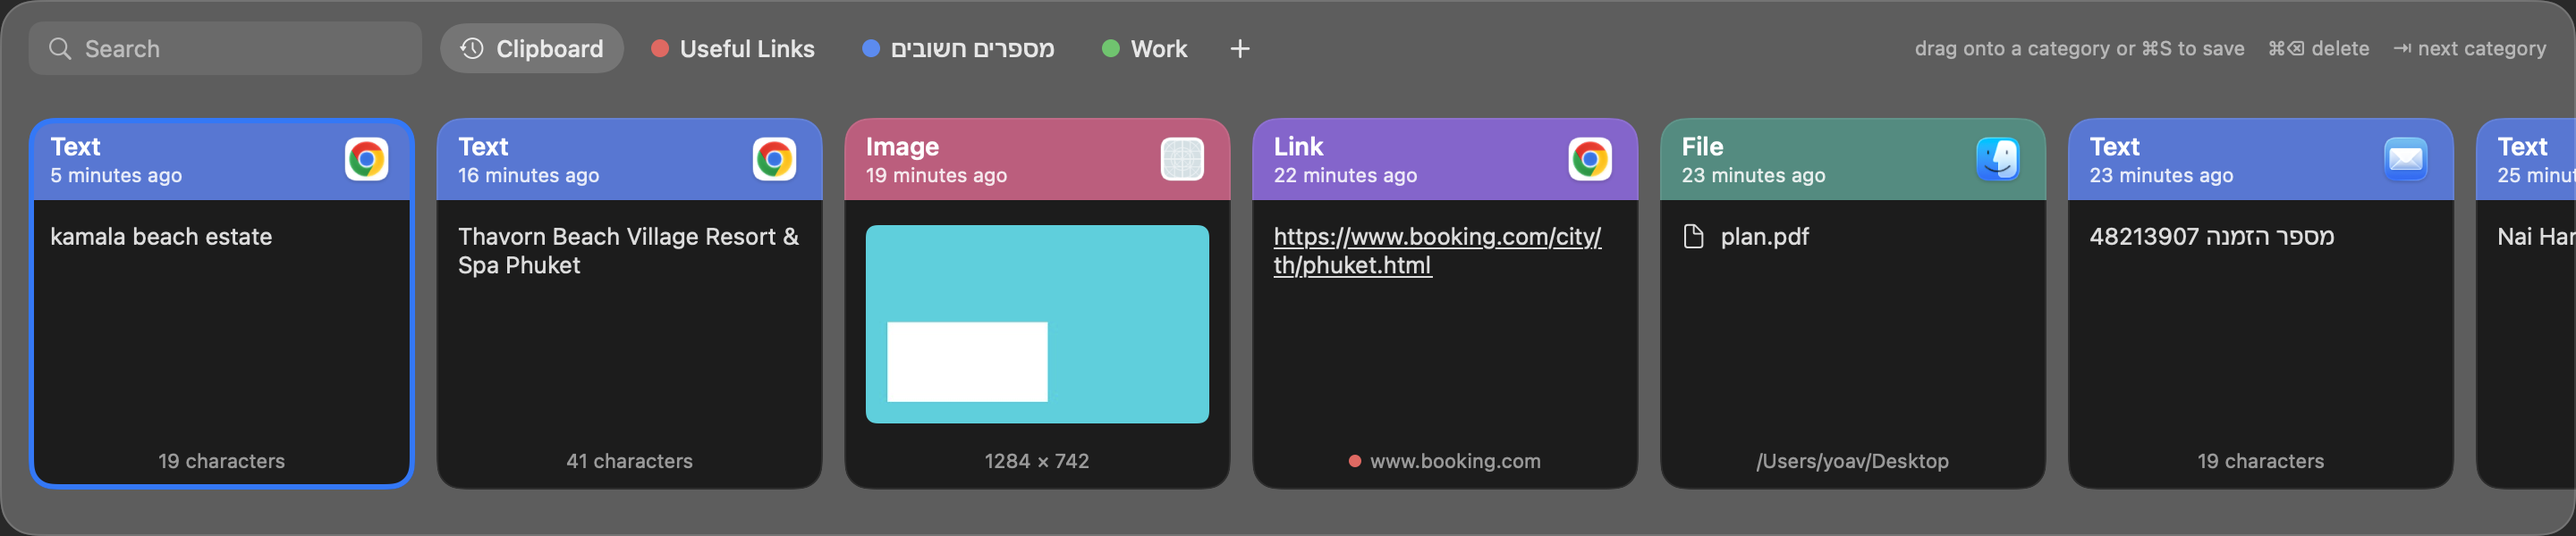
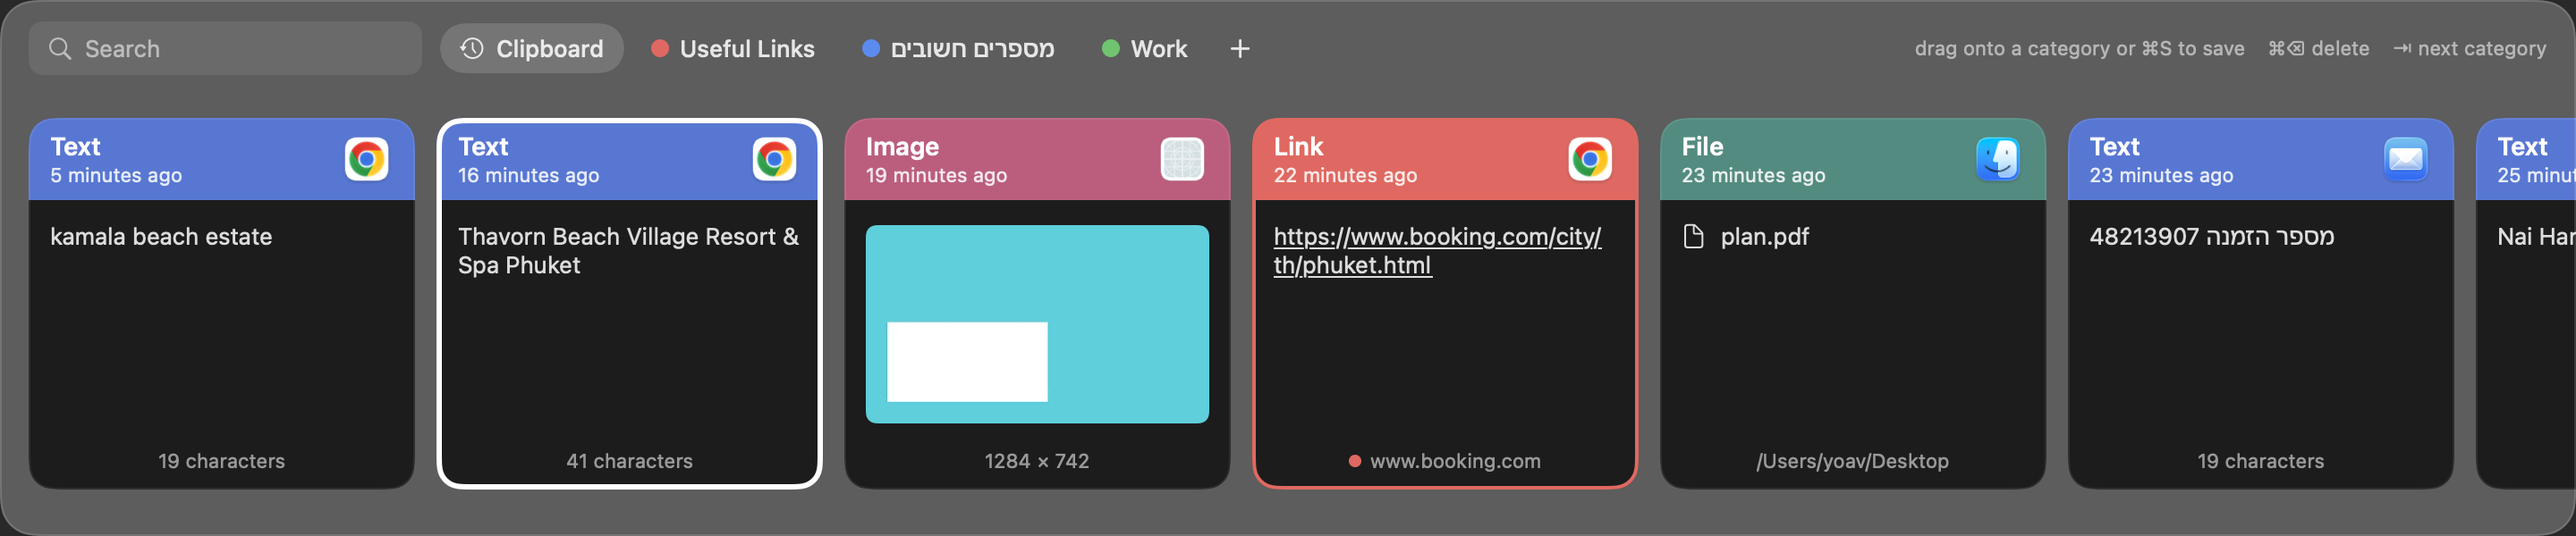
feat: give categories a colour menu and colour saved clips to match

Changed region(s): [[0.0, 0.21, 0.3125, 0.93], [0.4688, 0.21, 0.6562, 0.39], [0.5, 0.9, 0.625, 0.93]]

diff --git a/Sources/Cpaste/ShelfView.swift b/Sources/Cpaste/ShelfView.swift
@@ -36,6 +36,15 @@ struct ShelfActions {
     var delete: (Clip) -> Void = { _ in }
     var beginNaming: (ShelfModel.Naming) -> Void = { _ in }
     var deleteCategory: (ClipCategory) -> Void = { _ in }
+    var recolor: (ClipCategory, _ colorHex: String) -> Void = { _, _ in }
+}
+
+enum CategoryPalette {
+    static let colors: [(name: String, hex: String)] = [
+        ("Red", "#F0605D"), ("Blue", "#4C8DF6"), ("Green", "#4CC764"),
+        ("Orange", "#F5A623"), ("Purple", "#B46BE0"), ("Teal", "#3CC8C8"),
+        ("Pink", "#F06FA8"), ("Yellow", "#E8C53A"), ("Grey", "#8E99A4"),
+    ]
 }
 
 struct ShelfView: View {
@@ -107,6 +116,15 @@ struct ShelfView: View {
                     chip(title: category.name, color: Color(hex: category.colorHex), filter: .category(category.id))
                         .contextMenu {
                             Button("Rename…") { actions.beginNaming(.rename(category)) }
+                            Menu("Colour") {
+                                ForEach(CategoryPalette.colors, id: \.hex) { color in
+                                    Button {
+                                        actions.recolor(category, color.hex)
+                                    } label: {
+                                        Label(color.name, systemImage: category.colorHex == color.hex ? "checkmark" : "circle.fill")
+                                    }
+                                }
+                            }
                             Button("Delete category", role: .destructive) { actions.deleteCategory(category) }
                         }
                 }
@@ -249,7 +267,7 @@ struct ClipCard: View {
             }
             .foregroundStyle(.white)
             .padding(.horizontal, 12).frame(height: 46)
-            .background(kind.color)
+            .background(frameColor ?? kind.color)
 
             content
                 .frame(maxWidth: .infinity, maxHeight: .infinity, alignment: .topLeading)
@@ -268,8 +286,14 @@ struct ClipCard: View {
         .clipShape(RoundedRectangle(cornerRadius: 14, style: .continuous))
         .overlay(
             RoundedRectangle(cornerRadius: 14, style: .continuous)
-                .strokeBorder(isSelected ? Color.accentColor : .white.opacity(0.08), lineWidth: isSelected ? 3 : 1)
+                .strokeBorder(isSelected ? Color.white : frameColor ?? .white.opacity(0.08),
+                              lineWidth: isSelected ? 3 : frameColor == nil ? 1 : 2)
         )
+    }
+
+    /// A saved clip takes its category's colour for the header and the frame.
+    private var frameColor: Color? {
+        category.map { Color(hex: $0.colorHex) }
     }
 
     @ViewBuilder private var content: some View {

diff --git a/Sources/Cpaste/PanelController.swift b/Sources/Cpaste/PanelController.swift
@@ -12,7 +12,6 @@ private final class ShelfPanel: NSPanel {
 final class PanelController: NSObject, NSWindowDelegate {
     private static let height: CGFloat = 300
     private static let margin: CGFloat = 8
-    private static let categoryColors = ["#F0605D", "#4C8DF6", "#4CC764", "#F5A623", "#B46BE0", "#3CC8C8"]
 
     private let store: ClipStore
     private let model = ShelfModel()
@@ -46,6 +45,9 @@ final class PanelController: NSObject, NSWindowDelegate {
             beginNaming: { [weak self] in self?.beginNaming($0) },
             deleteCategory: { [weak self] category in
                 self?.change("delete the category") { try $0.deleteCategory(id: category.id) }
+            },
+            recolor: { [weak self] category, colorHex in
+                self?.change("recolour the category") { try $0.recolorCategory(id: category.id, to: colorHex) }
             }
         )
         panel.contentView = NSHostingView(rootView: ShelfView(model: model, imageFiles: store.imageFiles, actions: actions))
@@ -251,7 +253,7 @@ final class PanelController: NSObject, NSWindowDelegate {
     private func commitName() {
         let name = model.nameDraft.trimmingCharacters(in: .whitespacesAndNewlines)
         guard !name.isEmpty, let naming = model.naming else { return endNaming() }
-        let color = Self.categoryColors[model.categories.count % Self.categoryColors.count]
+        let color = CategoryPalette.colors[model.categories.count % CategoryPalette.colors.count].hex
         change("save the category") { store in
             switch naming {
             case .new(let clip):

diff --git a/Tests/CpasteCoreTests/SearchAndCategoryTests.swift b/Tests/CpasteCoreTests/SearchAndCategoryTests.swift
@@ -97,6 +97,13 @@ func awkwardQueriesDoNotThrow(query: String) throws {
     #expect(try store.categories().map(\.name) == ["Useful Links"])
 }
 
+@Test func recolouringACategory() throws {
+    let store = try makeStore()
+    let category = try store.createCategory(name: "Useful Links", colorHex: "#F0605D")
+    try store.recolorCategory(id: category.id, to: "#4C8DF6")
+    #expect(try store.categories().map(\.colorHex) == ["#4C8DF6"])
+}
+
 @Test func deletingAnImageClipRemovesItsFiles() throws {
     let store = try seededStore()
     let image = try #require(try store.search("image", in: .all, limit: 1).first)

diff --git a/Sources/CpasteCore/ClipStore.swift b/Sources/CpasteCore/ClipStore.swift
@@ -108,6 +108,12 @@ public final class ClipStore: Sendable {
         }
     }
 
+    public func recolorCategory(id: Int64, to colorHex: String) throws {
+        try database.write { db in
+            try db.execute(sql: "UPDATE category SET colorHex = ? WHERE id = ?", arguments: [colorHex, id])
+        }
+    }
+
     /// Deletes a category. Its clips go back to unsaved history.
     public func deleteCategory(id: Int64) throws {
         try database.write { db in

diff --git a/Tests/CpasteTests/ShelfRenderTests.swift b/Tests/CpasteTests/ShelfRenderTests.swift
@@ -36,6 +36,7 @@ import Testing
     let model = ShelfModel()
     model.categories = try store.categories()
     model.clips = try store.search("", in: .all, limit: 200)
+    model.selection = 1
     let view = ShelfView(model: model, imageFiles: store.imageFiles, actions: ShelfActions())
         .background(Color(white: 0.16))
     let host = NSHostingView(rootView: view)

diff --git a/docs/superpowers/specs/2026-11-14-cpaste-design.md b/docs/superpowers/specs/2026-11-14-cpaste-design.md
@@ -11,7 +11,7 @@ UI options for the panel are in `ui-options.html` next to this file, published a
 - Opens a floating panel on Cmd+1 over the current app. The shortcut is configurable.
 - Left and right arrows move the selection. Return pastes the selected clip into the app you came from. Cmd+2 to Cmd+9 paste by position while the panel is open. Cmd+1 closes it.
 - Typing filters clips by their text. A clip matches when it has a word starting with each word typed. Images match the word "image".
-- Categories hold saved clips. Dragging a clip onto a category saves it there, and so does Cmd+S. Dragging it onto Clipboard returns it to history. A clip belongs to at most one category.
+- Categories hold saved clips. Dragging a clip onto a category saves it there, and so does Cmd+S. Dragging it onto Clipboard returns it to history. A saved clip is drawn with its header and frame in the category colour, and the colour is chosen from a fixed list. A clip belongs to at most one category.
 - Unsaved history expires after 30 days by default. Saved clips never expire.
 - Copying something already in history moves the existing clip to the top instead of adding a duplicate.
 - Skips items that password managers mark as concealed or transient (`org.nspasteboard.ConcealedType`, `org.nspasteboard.TransientType`).

diff --git a/README.md b/README.md
@@ -49,7 +49,7 @@ Cpaste deletes clips after one month. To keep a clip, put it in a category.
 1. Click **+** at the top of the shelf and type a name, for example `Useful Links`.
 2. Drag a clip onto the category. You can also select the clip and press **Cmd+S**.
 
-A clip in a category is never deleted automatically. Click a category to see only its clips, or press **Tab** to move through the categories. Right-click a category to rename or delete it. Drag a clip back onto **Clipboard** to take it out of its category.
+A clip in a category is never deleted automatically. Click a category to see only its clips, or press **Tab** to move through the categories. Each category has a colour, and its clips get a header and frame in that colour so you can spot them. Right-click a category to rename it, change its colour, or delete it. Drag a clip back onto **Clipboard** to take it out of its category.
 
 ### Settings
 
